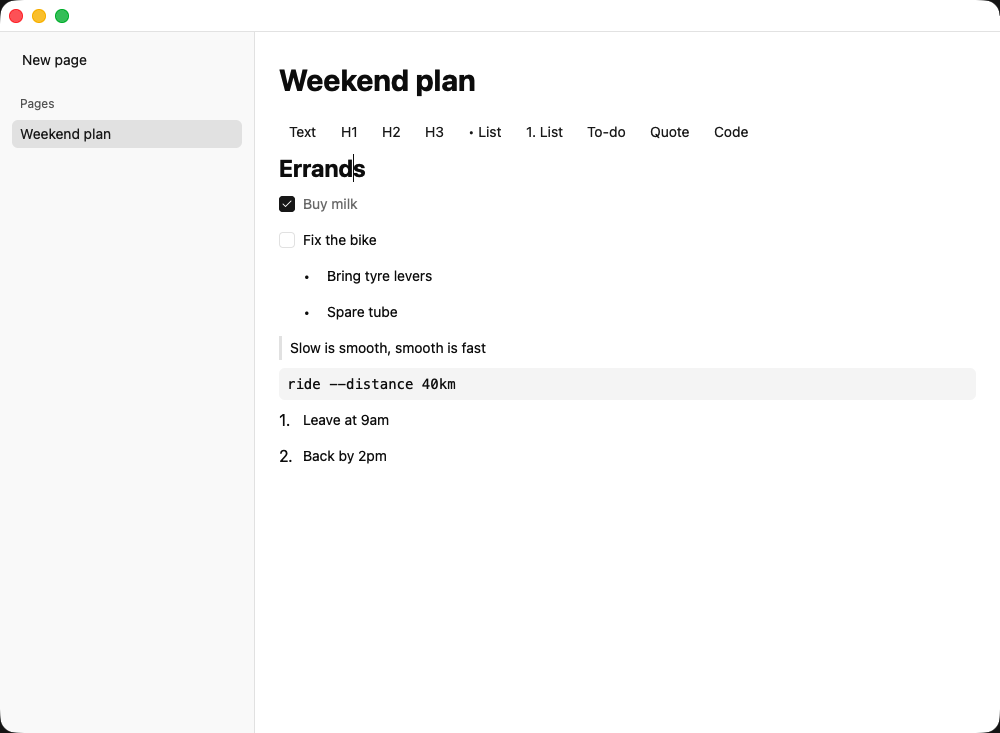
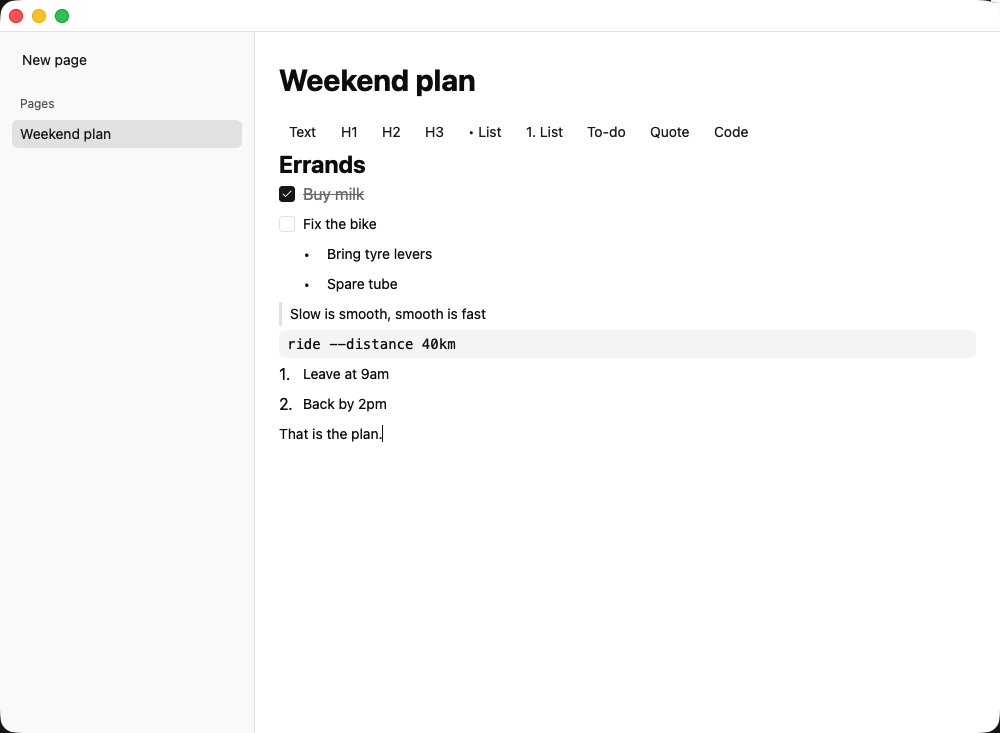
E07-S10: end lists on empty Enter, strike done to-dos, tighter rows
Owner review:
- Enter on an empty list item or to-do now ends the list, as the spec
  says: a nested item moves out one level, a top-level one becomes a
  paragraph, and no new block is added. Older tests that pressed Enter
  on empty items now type into them first.
- Ticked to-dos are struck through. Inputs can't draw strikethrough,
  so a done to-do shows as struck text until clicked for editing.
- Body rows are 28px with a 2px gap (was about 36px apart).

Screenshots refreshed.

Changed region(s): [[0.279, 0.4202, 0.496, 0.6303], [0.279, 0.2101, 0.434, 0.3902], [0.992, 0.0, 1.0, 0.03]]

diff --git a/crates/leaf-editor/src/page_editor/tests.rs b/crates/leaf-editor/src/page_editor/tests.rs
@@ -87,10 +87,12 @@ fn enter_adds_a_block_below_continuing_lists_and_todos() {
     editor.turn_into(first, BlockKind::Heading { level: 1 }).unwrap();
     let para = editor.enter(first).unwrap();
     editor.turn_into(para, BlockKind::BulletedList).unwrap();
+    editor.set_text(para, "bullet").unwrap();
     let bullet = editor.enter(para).unwrap();
     editor
         .turn_into(bullet, BlockKind::Todo { checked: true })
         .unwrap();
+    editor.set_text(bullet, "task").unwrap();
     let todo = editor.enter(bullet).unwrap();
 
     assert_eq!(editor.doc().root_blocks(), vec![first, para, bullet, todo]);
@@ -126,10 +128,15 @@ fn enter_in_a_nested_block_stays_at_its_level() {
 fn numbered_items_are_numbered_per_run_of_siblings() {
     let (mut editor, first) = editor();
     editor.turn_into(first, BlockKind::NumberedList).unwrap();
+    // Each item gets text before Enter: Enter on an empty item would end the list.
+    editor.set_text(first, "one").unwrap();
     let two = editor.enter(first).unwrap();
+    editor.set_text(two, "two").unwrap();
     let nested = editor.enter(two).unwrap();
     editor.indent(nested).unwrap();
+    editor.set_text(nested, "nested").unwrap();
     let three = editor.enter(two).unwrap();
+    editor.set_text(three, "three").unwrap();
     let break_ = editor.enter(three).unwrap();
     editor.turn_into(break_, BlockKind::Paragraph).unwrap();
     let restart = editor.enter(break_).unwrap();
@@ -167,6 +174,7 @@ fn every_kind_has_a_style() {
     ];
     let mut last = first;
     for kind in kinds {
+        editor.set_text(last, "x").unwrap(); // Enter on an empty to-do would end the list
         last = editor.enter(last).unwrap();
         editor.turn_into(last, kind).unwrap();
     }
@@ -283,4 +291,70 @@ fn previous_and_next_follow_reading_order() {
         None,
         "unknown blocks have no neighbours"
     );
+}
+
+#[test]
+fn enter_on_an_empty_list_item_leaves_the_list_instead_of_adding_one() {
+    for kind in [
+        BlockKind::BulletedList,
+        BlockKind::NumberedList,
+        BlockKind::Todo { checked: false },
+    ] {
+        let (mut editor, first) = editor();
+        editor.turn_into(first, kind.clone()).unwrap();
+        editor.set_text(first, "item").unwrap();
+        let empty = editor.enter(first).unwrap();
+        assert_eq!(
+            editor.doc().kind(empty).unwrap(),
+            kind,
+            "a filled item continues the list"
+        );
+
+        // Top level: the empty item becomes a paragraph, and no block is added.
+        assert_eq!(
+            editor.enter(empty).unwrap(),
+            empty,
+            "focus stays on the same block"
+        );
+        assert_eq!(
+            editor.doc().kind(empty).unwrap(),
+            BlockKind::Paragraph,
+            "{kind:?}"
+        );
+        assert_eq!(editor.doc().len(), 2);
+    }
+}
+
+#[test]
+fn enter_on_an_empty_nested_list_item_moves_it_out_one_level() {
+    let (mut editor, first) = editor();
+    editor.turn_into(first, BlockKind::BulletedList).unwrap();
+    editor.set_text(first, "parent").unwrap();
+    let child = editor.enter(first).unwrap();
+    editor.indent(child).unwrap();
+    editor.set_text(child, "child").unwrap();
+    let empty = editor.enter(child).unwrap();
+    assert_eq!(editor.doc().parent(empty).unwrap(), Some(first));
+
+    assert_eq!(editor.enter(empty).unwrap(), empty);
+    assert_eq!(
+        editor.doc().parent(empty).unwrap(),
+        None,
+        "out one level, still a list item"
+    );
+    assert_eq!(editor.doc().kind(empty).unwrap(), BlockKind::BulletedList);
+    assert_eq!(editor.enter(empty).unwrap(), empty);
+    assert_eq!(
+        editor.doc().kind(empty).unwrap(),
+        BlockKind::Paragraph,
+        "a second Enter at the top level ends the list"
+    );
+}
+
+#[test]
+fn enter_on_an_empty_paragraph_still_adds_a_block() {
+    let (mut editor, first) = editor();
+    let second = editor.enter(first).unwrap();
+    assert_ne!(second, first);
+    assert_eq!(editor.doc().len(), 2);
 }

diff --git a/crates/leaf-ui/src/shell/blocks.rs b/crates/leaf-ui/src/shell/blocks.rs
@@ -9,7 +9,8 @@ use std::collections::HashMap;
 
 use gpui::{
     AnyElement, AppContext as _, ClickEvent, Context, ElementId, Entity, FontWeight, InteractiveElement as _,
-    IntoElement, ParentElement, SharedString, Styled, Subscription, Window, div, px, rems,
+    IntoElement, MouseButton, MouseDownEvent, ParentElement, SharedString, Styled, Subscription, Window, div,
+    px, rems,
 };
 use gpui_component::button::{Button, ButtonVariants as _};
 use gpui_component::checkbox::Checkbox;
@@ -249,7 +250,7 @@ impl Shell {
             .collect();
 
         v_flex()
-            .gap_1()
+            .gap_0p5()
             .capture_action(cx.listener(Self::on_backspace))
             .capture_action(cx.listener(Self::on_indent))
             .capture_action(cx.listener(Self::on_outdent))
@@ -287,7 +288,12 @@ impl Shell {
                 input.set_value(text, window, cx);
             }
         });
-        let input = Input::new(&state).appearance(false).focus_bordered(false).px_0();
+        // Body rows are 28px: the input's default height is sized for form fields, which spaces blocks too far apart.
+        let input = Input::new(&state)
+            .appearance(false)
+            .focus_bordered(false)
+            .px_0()
+            .h_7();
         let muted = cx.theme().muted_foreground;
         let input = match &row.style {
             BlockStyle::Heading(level) => {
@@ -322,7 +328,30 @@ impl Shell {
             BlockStyle::Quote => Some(div().w(px(3.0)).h_6().bg(cx.theme().border).into_any_element()),
             _ => None,
         };
-        let line = line.children(prefix).child(div().flex_1().child(input));
+        // Inputs can't draw strikethrough, so a done to-do shows as struck-through text until it is
+        // clicked for editing.
+        let done_and_resting =
+            matches!(row.style, BlockStyle::Todo { checked: true }) && self.blocks.focused != Some(id);
+        let body = if done_and_resting {
+            div()
+                .flex_1()
+                .h_7()
+                .flex()
+                .items_center()
+                .text_color(muted)
+                .line_through()
+                .child(state.read(cx).value().to_string())
+                .on_mouse_down(
+                    MouseButton::Left,
+                    cx.listener(move |shell, _: &MouseDownEvent, window, cx| {
+                        shell.focus_block(id, window, cx);
+                    }),
+                )
+                .into_any_element()
+        } else {
+            div().flex_1().child(input).into_any_element()
+        };
+        let line = line.children(prefix).child(body);
         match row.style {
             BlockStyle::Code { .. } => line.bg(cx.theme().muted).rounded_md().px_2().into_any_element(),
             _ => line.into_any_element(),

diff --git a/crates/leaf-editor/src/page_editor.rs b/crates/leaf-editor/src/page_editor.rs
@@ -124,10 +124,27 @@ impl PageEditor {
         Ok(())
     }
 
-    /// Enter: adds a block right below `id`, at the same level, and returns it. Lists and to-dos
-    /// continue (an unticked to-do); anything else continues as a paragraph.
+    /// Enter: adds a block right below `id`, at the same level, and returns the block to focus. Lists
+    /// and to-dos continue (an unticked to-do); anything else continues as a paragraph.
+    ///
+    /// On an **empty** list item or to-do, Enter leaves the list instead (`PRODUCT_SPEC.md` "Editor
+    /// behaviour"): a nested item moves out one level, a top-level one becomes a paragraph, and no
+    /// new block is added. That is how a run of list items is ended.
     pub fn enter(&mut self, id: BlockId) -> Result<BlockId, EditorError> {
-        let kind = match self.doc.kind(id)? {
+        let kind = self.doc.kind(id)?;
+        let is_list = matches!(
+            kind,
+            BlockKind::BulletedList | BlockKind::NumberedList | BlockKind::Todo { .. }
+        );
+        if is_list && self.doc.plain_text(id)?.is_some_and(|text| text.is_empty()) {
+            if self.doc.parent(id)?.is_some() {
+                self.outdent(id)?;
+            } else {
+                self.turn_into(id, BlockKind::Paragraph)?;
+            }
+            return Ok(id);
+        }
+        let kind = match kind {
             kind @ (BlockKind::BulletedList | BlockKind::NumberedList) => kind,
             BlockKind::Todo { .. } => BlockKind::Todo { checked: false },
             _ => BlockKind::Paragraph,

diff --git a/crates/leaf-ui/src/shell.rs b/crates/leaf-ui/src/shell.rs
@@ -290,4 +290,43 @@ mod tests {
             "a non-empty block gets an ordinary backspace"
         );
     }
+
+    #[gpui::test]
+    fn enter_on_an_empty_list_item_ends_the_list(cx: &mut TestAppContext) {
+        let (shell, cx) = open_shell(cx);
+        cx.update(|window, cx| shell.update(cx, |shell, cx| shell.new_page(window, cx)));
+        cx.simulate_keystrokes("enter");
+        cx.update(|window, cx| {
+            shell.update(cx, |shell, cx| {
+                shell.turn_focused_into(leaf_model::BlockKind::BulletedList, window, cx);
+            });
+        });
+        cx.simulate_input("Item");
+        cx.simulate_keystrokes("enter enter");
+        cx.simulate_input("After");
+        assert_eq!(
+            blocks(&shell, cx),
+            vec![(0, "Item".into()), (0, "After".into())],
+            "no stray empty bullet"
+        );
+        let styles: Vec<leaf_editor::BlockStyle> = shell.read_with(cx, |shell, _| {
+            let page = shell.editor().selected().unwrap();
+            shell
+                .editor()
+                .page_editor(page)
+                .unwrap()
+                .rows()
+                .unwrap()
+                .into_iter()
+                .map(|row| row.style)
+                .collect()
+        });
+        assert_eq!(
+            styles,
+            vec![
+                leaf_editor::BlockStyle::Bulleted,
+                leaf_editor::BlockStyle::Paragraph
+            ]
+        );
+    }
 }

diff --git a/backlog/stories/E07-S10.md b/backlog/stories/E07-S10.md
@@ -25,6 +25,8 @@ logic in `leaf-editor`, where it carries over. Nothing is saved yet (E03).
 - [x] An empty page starts with one empty paragraph to type in
 - [x] Typing edits the block's text through the text commands
 - [x] Enter adds a block below (lists and to-dos keep their kind, others become paragraphs) and focuses it
+- [x] Enter on an empty list item or to-do ends the list (outdent; at the top level, paragraph) instead of adding another (owner review)
+- [x] Ticked to-dos are struck through (owner review)
 - [x] Backspace in an empty block deletes it and focuses the block above (the last block stays)
 - [x] Tab / Shift+Tab indent and outdent the focused block
 - [x] A toolbar turns the focused block into paragraph, heading 1–3, bulleted, numbered, to-do, quote or code
@@ -62,3 +64,4 @@ logic in `leaf-editor`, where it carries over. Nothing is saved yet (E03).
 - 2026-10-28: verified in the running app (screenshots docs/screenshots/E07-S10-*.png); fixed missing checkbox tick by registering gpui-kit-assets
 - 2026-10-28: PR https://github.com/milinpaul/project-leaf/pull/18
 - 2026-10-28: PR opened with screenshots
+- 2026-10-28: owner review: empty-item Enter ends lists (spec rule), done to-dos struck through (inputs can't, so shown as text until clicked), rows tightened to 28px
